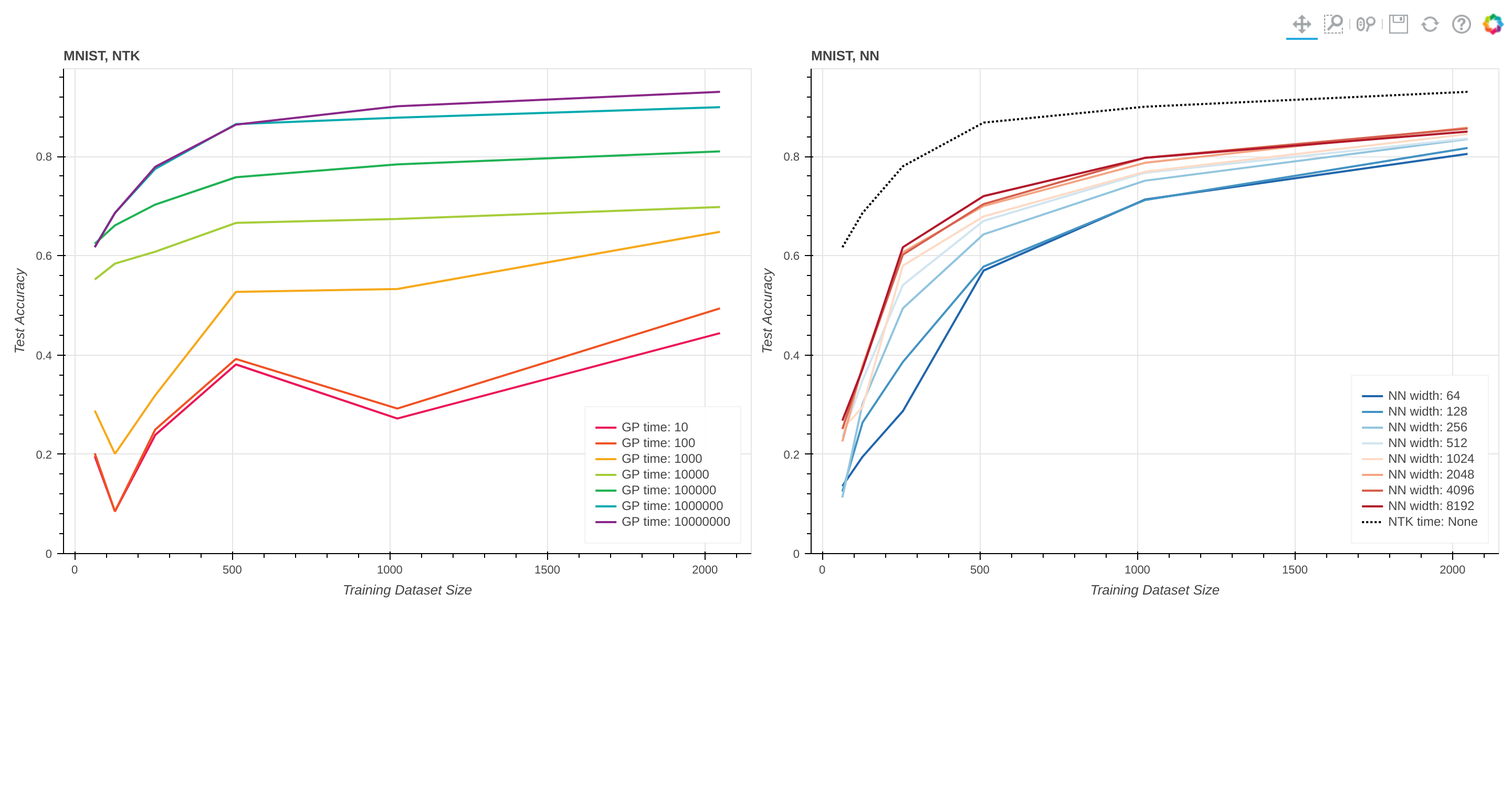
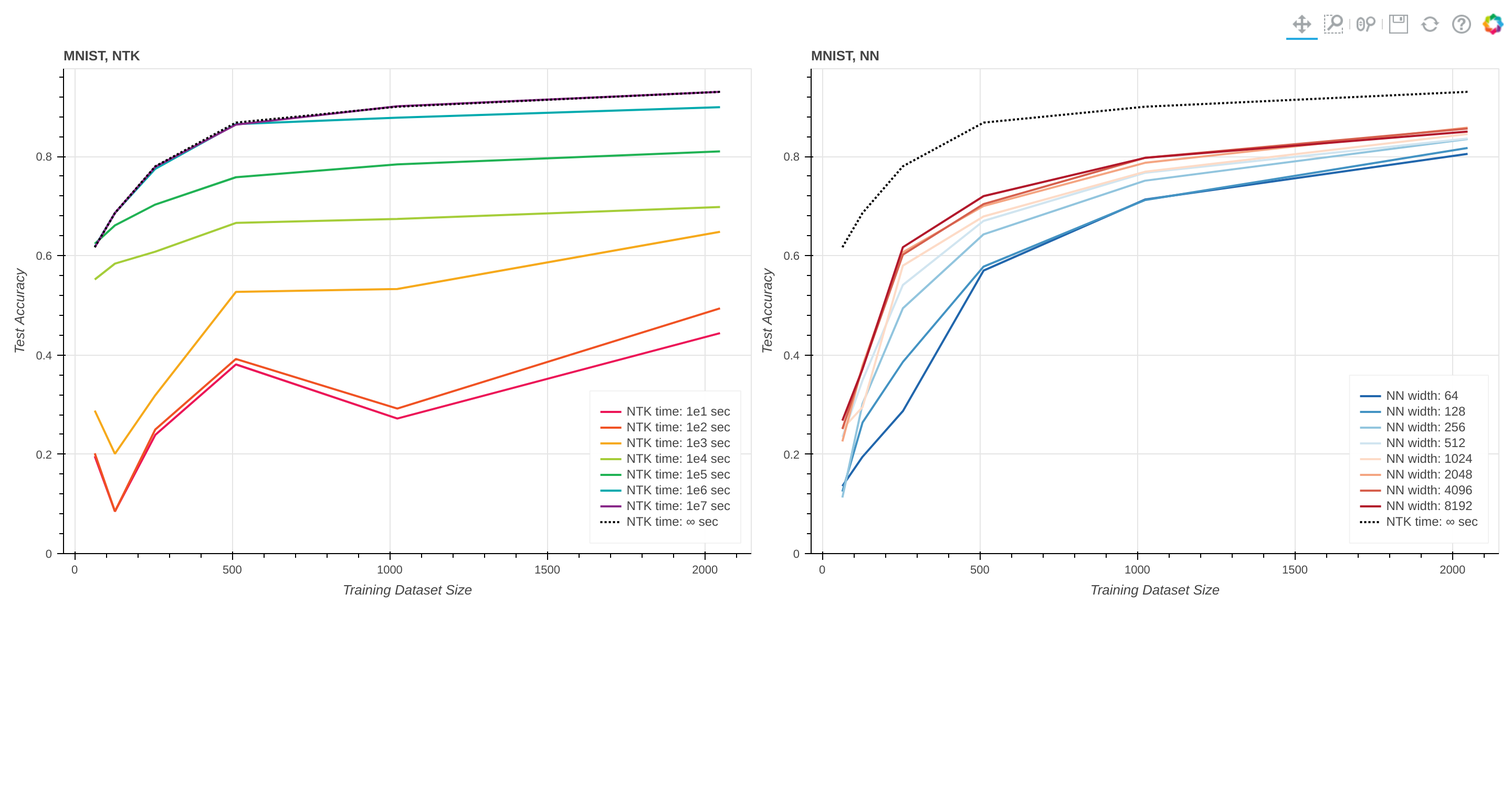
update images

Changed region(s): [[0.9062, 0.4688, 0.9688, 0.6562], [0.4062, 0.5, 0.5, 0.6562]]

diff --git a/assets/Compare_NN_and_NTK.html b/assets/Compare_NN_and_NTK.html
@@ -34,14 +34,14 @@
           
           
             
-              <div class="bk-root" id="08a3f74f-d3d3-4eb5-88f3-38a9f73d7980" data-root-id="23496"></div>
+              <div class="bk-root" id="1f5b6419-c8d9-4f72-9950-2ff5ffd283b7" data-root-id="39768"></div>
             
           
         
       
       
-        <script type="application/json" id="23977">
-          {"6784c0b0-02c0-45f9-b83d-e3599ebe1b0f":{"defs":[],"roots":{"references":[{"attributes":{},"id":"23194","type":"Selection"},{"attributes":{},"id":"23081","type":"AllLabels"},{"attributes":{},"id":"23350","type":"UnionRenderers"},{"attributes":{"line_color":"#4393c3","line_width":2,"x":{"field":"x"},"y":{"field":"y"}},"id":"23244","type":"Line"},{"attributes":{},"id":"23084","type":"UnionRenderers"},{"attributes":{},"id":"23010","type":"DataRange1d"},{"attributes":{"data":{"x":[64,128,256,512,1024,2048],"y":[0.125,0.2639999985694885,0.38600000739097595,0.578000009059906,0.7120000123977661,0.8170000314712524]},"selected":{"id":"23257"},"selection_policy":{"id":"23258"}},"id":"23243","type":"ColumnDataSource"},{"attributes":{"data":{"x":[64,128,256,512,1024,2048],"y":[0.2510000169277191,0.37300002574920654,0.6020000576972961,0.7040000557899475,0.7970000505447388,0.8560000658035278]},"selected":{"id":"23377"},"selection_policy":{"id":"23378"}},"id":"23353","type":"ColumnDataSource"},{"attributes":{},"id":"23195","type":"UnionRenderers"},{"attributes":{"line_color":"#892889","line_width":2,"x":{"field":"x"},"y":{"field":"y"}},"id":"23199","type":"Line"},{"attributes":{"line_color":"#d6604d","line_width":2,"x":{"field":"x"},"y":{"field":"y"}},"id":"23354","type":"Line"},{"attributes":{},"id":"23083","type":"Selection"},{"attributes":{"children":[[{"id":"22974"},0,0],[{"id":"23007"},0,1]]},"id":"23493","type":"GridBox"},{"attributes":{"line_alpha":0.1,"line_dash":[2],"line_width":2,"x":{"field":"x"},"y":{"field":"y"}},"id":"23413","type":"Line"},{"attributes":{},"id":"23080","type":"BasicTickFormatter"},{"attributes":{"data_source":{"id":"23411"},"glyph":{"id":"23412"},"hover_glyph":null,"muted_glyph":null,"nonselection_glyph":{"id":"23413"},"view":{"id":"23415"}},"id":"23414","type":"GlyphRenderer"},{"attributes":{"data":{"x":[64,128,256,512,1024,2048],"y":[0.6170000433921814,0.6860000491142273,0.7790000438690186,0.8640000224113464,0.9010000228881836,0.9300000667572021]},"selected":{"id":"23222"},"selection_policy":{"id":"23223"}},"id":"23198","type":"ColumnDataSource"},{"attributes":{"bottom_units":"screen","fill_alpha":0.5,"fill_color":"lightgrey","left_units":"screen","level":"overlay","line_alpha":1.0,"line_color":"black","line_dash":[4,4],"line_width":2,"right_units":"screen","syncable":false,"top_units":"screen"},"id":"22999","type":"BoxAnnotation"},{"attributes":{"source":{"id":"23411"}},"id":"23415","type":"CDSView"},{"attributes":{"data":{"x":[64,128,256,512,1024,2048],"y":[0.20200000703334808,0.08500000089406967,0.25,0.3920000195503235,0.29200002551078796,0.49400001764297485]},"selected":{"id":"23102"},"selection_policy":{"id":"23103"}},"id":"23088","type":"ColumnDataSource"},{"attributes":{},"id":"23439","type":"Selection"},{"attributes":{},"id":"22993","type":"PanTool"},{"attributes":{"line_color":"#F05223","line_width":2,"x":{"field":"x"},"y":{"field":"y"}},"id":"23089","type":"Line"},{"attributes":{"label":{"value":"NN width: 128"},"renderers":[{"id":"23246"}]},"id":"23260","type":"LegendItem"},{"attributes":{},"id":"23440","type":"UnionRenderers"},{"attributes":{"data_source":{"id":"23243"},"glyph":{"id":"23244"},"hover_glyph":null,"muted_glyph":null,"nonselection_glyph":{"id":"23245"},"view":{"id":"23247"}},"id":"23246","type":"GlyphRenderer"},{"attributes":{"label":{"value":"GP time: 10000000"},"renderers":[{"id":"23201"}]},"id":"23225","type":"LegendItem"},{"attributes":{"label":{"value":"NN width: 4096"},"renderers":[{"id":"23356"}]},"id":"23380","type":"LegendItem"},{"attributes":{"data_source":{"id":"23198"},"glyph":{"id":"23199"},"hover_glyph":null,"muted_glyph":null,"nonselection_glyph":{"id":"23200"},"view":{"id":"23202"}},"id":"23201","type":"GlyphRenderer"},{"attributes":{"data_source":{"id":"23353"},"glyph":{"id":"23354"},"hover_glyph":null,"muted_glyph":null,"nonselection_glyph":{"id":"23355"},"view":{"id":"23357"}},"id":"23356","type":"GlyphRenderer"},{"attributes":{"children":[{"id":"23495"},{"id":"23493"}],"sizing_mode":"scale_both"},"id":"23496","type":"Column"},{"attributes":{"source":{"id":"23243"}},"id":"23247","type":"CDSView"},{"attributes":{"line_alpha":0.1,"line_color":"#4393c3","line_width":2,"x":{"field":"x"},"y":{"field":"y"}},"id":"23245","type":"Line"},{"attributes":{"toolbar":{"id":"23494"},"toolbar_location":"above"},"id":"23495","type":"ToolbarBox"},{"attributes":{"source":{"id":"23198"}},"id":"23202","type":"CDSView"},{"attributes":{"source":{"id":"23353"}},"id":"23357","type":"CDSView"},{"attributes":{},"id":"23257","type":"Selection"},{"attributes":{"toolbars":[{"id":"23000"},{"id":"23033"}],"tools":[{"id":"22993"},{"id":"22994"},{"id":"22995"},{"id":"22996"},{"id":"22997"},{"id":"22998"},{"id":"23026"},{"id":"23027"},{"id":"23028"},{"id":"23029"},{"id":"23030"},{"id":"23031"}]},"id":"23494","type":"ProxyToolbar"},{"attributes":{"line_alpha":0.1,"line_color":"#892889","line_width":2,"x":{"field":"x"},"y":{"field":"y"}},"id":"23200","type":"Line"},{"attributes":{"label":{"value":"GP time: 100"},"renderers":[{"id":"23091"}]},"id":"23105","type":"LegendItem"},{"attributes":{"line_alpha":0.1,"line_color":"#d6604d","line_width":2,"x":{"field":"x"},"y":{"field":"y"}},"id":"23355","type":"Line"},{"attributes":{"data_source":{"id":"23088"},"glyph":{"id":"23089"},"hover_glyph":null,"muted_glyph":null,"nonselection_glyph":{"id":"23090"},"view":{"id":"23092"}},"id":"23091","type":"GlyphRenderer"},{"attributes":{},"id":"23222","type":"Selection"},{"attributes":{},"id":"23258","type":"UnionRenderers"},{"attributes":{},"id":"23377","type":"Selection"},{"attributes":{"source":{"id":"23088"}},"id":"23092","type":"CDSView"},{"attributes":{"line_color":"#92c5de","line_width":2,"x":{"field":"x"},"y":{"field":"y"}},"id":"23262","type":"Line"},{"attributes":{},"id":"23223","type":"UnionRenderers"},{"attributes":{},"id":"23378","type":"UnionRenderers"},{"attributes":{"line_alpha":0.1,"line_color":"#F05223","line_width":2,"x":{"field":"x"},"y":{"field":"y"}},"id":"23090","type":"Line"},{"attributes":{"data":{"x":[64,128,256,512,1024,2048],"y":[0.11300000548362732,0.3020000159740448,0.49400001764297485,0.6430000066757202,0.7510000467300415,0.8350000381469727]},"selected":{"id":"23277"},"selection_policy":{"id":"23278"}},"id":"23261","type":"ColumnDataSource"},{"attributes":{"line_color":"#b2182b","line_width":2,"x":{"field":"x"},"y":{"field":"y"}},"id":"23382","type":"Line"},{"attributes":{},"id":"23102","type":"Selection"},{"attributes":{"line_color":"#2166ac","line_width":2,"x":{"field":"x"},"y":{"field":"y"}},"id":"23227","type":"Line"},{"attributes":{"data":{"x":[64,128,256,512,1024,2048],"y":[0.2680000066757202,0.3720000088214874,0.6170000433921814,0.7200000286102295,0.7970000505447388,0.8500000238418579]},"selected":{"id":"23407"},"selection_policy":{"id":"23408"}},"id":"23381","type":"ColumnDataSource"},{"attributes":{},"id":"23103","type":"UnionRenderers"},{"attributes":{"label":{"value":"GP time: 1000"},"renderers":[{"id":"23109"}]},"id":"23125","type":"LegendItem"},{"attributes":{"line_color":"#F6A91B","line_width":2,"x":{"field":"x"},"y":{"field":"y"}},"id":"23107","type":"Line"},{"attributes":{"data":{"x":[64,128,256,512,1024,2048],"y":[0.2880000174045563,0.20100000500679016,0.3190000057220459,0.5270000100135803,0.5330000519752502,0.6480000019073486]},"selected":{"id":"23122"},"selection_policy":{"id":"23123"}},"id":"23106","type":"ColumnDataSource"},{"attributes":{"label":{"value":"NN width: 256"},"renderers":[{"id":"23264"}]},"id":"23280","type":"LegendItem"},{"attributes":{"data_source":{"id":"23261"},"glyph":{"id":"23262"},"hover_glyph":null,"muted_glyph":null,"nonselection_glyph":{"id":"23263"},"view":{"id":"23265"}},"id":"23264","type":"GlyphRenderer"},{"attributes":{"data":{"x":[64,128,256,512,1024,2048],"y":[0.13600000739097595,0.19500000774860382,0.28700000047683716,0.5700000524520874,0.7130000591278076,0.8050000667572021]},"selected":{"id":"23238"},"selection_policy":{"id":"23239"}},"id":"23226","type":"ColumnDataSource"},{"attributes":{"items":[{"id":"23242"},{"id":"23260"},{"id":"23280"},{"id":"23302"},{"id":"23326"},{"id":"23352"},{"id":"23380"},{"id":"23410"},{"id":"23442"}],"label_text_font_size":"12px","location":"bottom_right","spacing":-5},"id":"23241","type":"Legend"},{"attributes":{"source":{"id":"23261"}},"id":"23265","type":"CDSView"},{"attributes":{"label":{"value":"NN width: 8192"},"renderers":[{"id":"23384"}]},"id":"23410","type":"LegendItem"},{"attributes":{"data_source":{"id":"23226"},"glyph":{"id":"23227"},"hover_glyph":null,"muted_glyph":null,"nonselection_glyph":{"id":"23228"},"view":{"id":"23230"}},"id":"23229","type":"GlyphRenderer"},{"attributes":{"data_source":{"id":"23381"},"glyph":{"id":"23382"},"hover_glyph":null,"muted_glyph":null,"nonselection_glyph":{"id":"23383"},"view":{"id":"23385"}},"id":"23384","type":"GlyphRenderer"},{"attributes":{"line_alpha":0.1,"line_color":"#92c5de","line_width":2,"x":{"field":"x"},"y":{"field":"y"}},"id":"23263","type":"Line"},{"attributes":{},"id":"23277","type":"Selection"},{"attributes":{"data_source":{"id":"23106"},"glyph":{"id":"23107"},"hover_glyph":null,"muted_glyph":null,"nonselection_glyph":{"id":"23108"},"view":{"id":"23110"}},"id":"23109","type":"GlyphRenderer"},{"attributes":{"source":{"id":"23226"}},"id":"23230","type":"CDSView"},{"attributes":{"source":{"id":"23381"}},"id":"23385","type":"CDSView"},{"attributes":{"line_alpha":0.1,"line_color":"#2166ac","line_width":2,"x":{"field":"x"},"y":{"field":"y"}},"id":"23228","type":"Line"},{"attributes":{"line_alpha":0.1,"line_color":"#b2182b","line_width":2,"x":{"field":"x"},"y":{"field":"y"}},"id":"23383","type":"Line"},{"attributes":{},"id":"23278","type":"UnionRenderers"},{"attributes":{},"id":"23014","type":"LinearScale"},{"attributes":{},"id":"23232","type":"BasicTickFormatter"},{"attributes":{},"id":"23407","type":"Selection"},{"attributes":{"source":{"id":"23106"}},"id":"23110","type":"CDSView"},{"attributes":{"line_color":"#d1e5f0","line_width":2,"x":{"field":"x"},"y":{"field":"y"}},"id":"23282","type":"Line"},{"attributes":{"line_alpha":0.1,"line_color":"#F6A91B","line_width":2,"x":{"field":"x"},"y":{"field":"y"}},"id":"23108","type":"Line"},{"attributes":{"data":{"x":[64,128,256,512,1024,2048],"y":[0.23500001430511475,0.3490000069141388,0.5410000085830688,0.6700000166893005,0.7670000195503235,0.8360000252723694]},"selected":{"id":"23299"},"selection_policy":{"id":"23300"}},"id":"23281","type":"ColumnDataSource"},{"attributes":{},"id":"23233","type":"AllLabels"},{"attributes":{},"id":"23408","type":"UnionRenderers"},{"attributes":{"data":{"x":[64,128,256,512,1024,2048],"y":[0.6170000433921814,0.6860000491142273,0.7800000309944153,0.8680000305175781,0.9000000357627869,0.9300000667572021]},"selected":{"id":"23439"},"selection_policy":{"id":"23440"}},"id":"23411","type":"ColumnDataSource"},{"attributes":{},"id":"23122","type":"Selection"},{"attributes":{},"id":"23238","type":"Selection"},{"attributes":{"line_dash":[2],"line_width":2,"x":{"field":"x"},"y":{"field":"y"}},"id":"23412","type":"Line"},{"attributes":{},"id":"23235","type":"BasicTickFormatter"},{"attributes":{"start":0},"id":"23012","type":"DataRange1d"},{"attributes":{},"id":"23236","type":"AllLabels"},{"attributes":{},"id":"23123","type":"UnionRenderers"},{"attributes":{},"id":"23016","type":"LinearScale"},{"attributes":{},"id":"23239","type":"UnionRenderers"},{"attributes":{"line_alpha":0.1,"line_color":"#d1e5f0","line_width":2,"x":{"field":"x"},"y":{"field":"y"}},"id":"23283","type":"Line"},{"attributes":{"label":{"value":"NN width: 64"},"renderers":[{"id":"23229"}]},"id":"23242","type":"LegendItem"},{"attributes":{"source":{"id":"23172"}},"id":"23176","type":"CDSView"},{"attributes":{"start":0},"id":"22979","type":"DataRange1d"},{"attributes":{"data_source":{"id":"23281"},"glyph":{"id":"23282"},"hover_glyph":null,"muted_glyph":null,"nonselection_glyph":{"id":"23283"},"view":{"id":"23285"}},"id":"23284","type":"GlyphRenderer"},{"attributes":{"line_color":"#A5CD39","line_width":2,"x":{"field":"x"},"y":{"field":"y"}},"id":"23127","type":"Line"},{"attributes":{"source":{"id":"23281"}},"id":"23285","type":"CDSView"},{"attributes":{"overlay":{"id":"22999"}},"id":"22995","type":"BoxZoomTool"},{"attributes":{"line_alpha":0.1,"line_color":"#EC1557","line_width":2,"x":{"field":"x"},"y":{"field":"y"}},"id":"23073","type":"Line"},{"attributes":{"data":{"x":[64,128,256,512,1024,2048],"y":[0.5520000457763672,0.5840000510215759,0.6080000400543213,0.6660000085830688,0.6740000247955322,0.6980000138282776]},"selected":{"id":"23144"},"selection_policy":{"id":"23145"}},"id":"23126","type":"ColumnDataSource"},{"attributes":{},"id":"22981","type":"LinearScale"},{"attributes":{"label":{"value":"NN width: 512"},"renderers":[{"id":"23284"}]},"id":"23302","type":"LegendItem"},{"attributes":{"overlay":{"id":"23032"}},"id":"23028","type":"BoxZoomTool"},{"attributes":{"data_source":{"id":"23071"},"glyph":{"id":"23072"},"hover_glyph":null,"muted_glyph":null,"nonselection_glyph":{"id":"23073"},"view":{"id":"23075"}},"id":"23074","type":"GlyphRenderer"},{"attributes":{"label":{"value":"GP time: 10000"},"renderers":[{"id":"23129"}]},"id":"23147","type":"LegendItem"},{"attributes":{},"id":"23299","type":"Selection"},{"attributes":{},"id":"22996","type":"SaveTool"},{"attributes":{"data_source":{"id":"23126"},"glyph":{"id":"23127"},"hover_glyph":null,"muted_glyph":null,"nonselection_glyph":{"id":"23128"},"view":{"id":"23130"}},"id":"23129","type":"GlyphRenderer"},{"attributes":{"data":{"x":[64,128,256,512,1024,2048],"y":[0.19600000977516174,0.08500000089406967,0.23900000751018524,0.38100001215934753,0.2720000147819519,0.4440000355243683]},"selected":{"id":"23083"},"selection_policy":{"id":"23084"}},"id":"23071","type":"ColumnDataSource"},{"attributes":{},"id":"23030","type":"ResetTool"},{"attributes":{"axis_label":"Training Dataset Size","formatter":{"id":"23080"},"major_label_policy":{"id":"23081"},"ticker":{"id":"22986"}},"id":"22985","type":"LinearAxis"},{"attributes":{"items":[{"id":"23087"},{"id":"23105"},{"id":"23125"},{"id":"23147"},{"id":"23171"},{"id":"23197"},{"id":"23225"}],"label_text_font_size":"12px","location":"bottom_right","spacing":-5},"id":"23086","type":"Legend"},{"attributes":{},"id":"23300","type":"UnionRenderers"},{"attributes":{},"id":"23026","type":"PanTool"},{"attributes":{"below":[{"id":"23018"}],"center":[{"id":"23021"},{"id":"23025"},{"id":"23241"}],"height":30,"left":[{"id":"23022"}],"renderers":[{"id":"23229"},{"id":"23246"},{"id":"23264"},{"id":"23284"},{"id":"23306"},{"id":"23330"},{"id":"23356"},{"id":"23384"},{"id":"23414"}],"sizing_mode":"scale_both","title":{"id":"23008"},"toolbar":{"id":"23033"},"toolbar_location":null,"width":40,"x_range":{"id":"23010"},"x_scale":{"id":"23014"},"y_range":{"id":"23012"},"y_scale":{"id":"23016"}},"id":"23007","subtype":"Figure","type":"Plot"},{"attributes":{"source":{"id":"23126"}},"id":"23130","type":"CDSView"},{"attributes":{"line_alpha":0.1,"line_color":"#A5CD39","line_width":2,"x":{"field":"x"},"y":{"field":"y"}},"id":"23128","type":"Line"},{"attributes":{"line_color":"#fddbc7","line_width":2,"x":{"field":"x"},"y":{"field":"y"}},"id":"23304","type":"Line"},{"attributes":{"source":{"id":"23071"}},"id":"23075","type":"CDSView"},{"attributes":{"data":{"x":[64,128,256,512,1024,2048],"y":[0.2510000169277191,0.29500001668930054,0.5800000429153442,0.6790000200271606,0.7690000534057617,0.8450000286102295]},"selected":{"id":"23323"},"selection_policy":{"id":"23324"}},"id":"23303","type":"ColumnDataSource"},{"attributes":{"axis_label":"Test Accuracy","formatter":{"id":"23077"},"major_label_policy":{"id":"23078"},"ticker":{"id":"22990"}},"id":"22989","type":"LinearAxis"},{"attributes":{},"id":"23144","type":"Selection"},{"attributes":{"label":{"value":"GP time: 10"},"renderers":[{"id":"23074"}]},"id":"23087","type":"LegendItem"},{"attributes":{},"id":"23031","type":"HelpTool"},{"attributes":{},"id":"23145","type":"UnionRenderers"},{"attributes":{},"id":"23077","type":"BasicTickFormatter"},{"attributes":{"bottom_units":"screen","fill_alpha":0.5,"fill_color":"lightgrey","left_units":"screen","level":"overlay","line_alpha":1.0,"line_color":"black","line_dash":[4,4],"line_width":2,"right_units":"screen","syncable":false,"top_units":"screen"},"id":"23032","type":"BoxAnnotation"},{"attributes":{"line_color":"#20B254","line_width":2,"x":{"field":"x"},"y":{"field":"y"}},"id":"23149","type":"Line"},{"attributes":{"data":{"x":[64,128,256,512,1024,2048],"y":[0.6240000128746033,0.6610000133514404,0.703000009059906,0.7580000162124634,0.784000039100647,0.8100000619888306]},"selected":{"id":"23168"},"selection_policy":{"id":"23169"}},"id":"23148","type":"ColumnDataSource"},{"attributes":{},"id":"23349","type":"Selection"},{"attributes":{"axis":{"id":"23018"},"ticker":null},"id":"23021","type":"Grid"},{"attributes":{"active_multi":null,"tools":[{"id":"22993"},{"id":"22994"},{"id":"22995"},{"id":"22996"},{"id":"22997"},{"id":"22998"}]},"id":"23000","type":"Toolbar"},{"attributes":{"axis_label":"Test Accuracy","formatter":{"id":"23232"},"major_label_policy":{"id":"23233"},"ticker":{"id":"23023"}},"id":"23022","type":"LinearAxis"},{"attributes":{},"id":"22990","type":"BasicTicker"},{"attributes":{"label":{"value":"NN width: 1024"},"renderers":[{"id":"23306"}]},"id":"23326","type":"LegendItem"},{"attributes":{},"id":"23027","type":"WheelZoomTool"},{"attributes":{"axis":{"id":"22985"},"ticker":null},"id":"22988","type":"Grid"},{"attributes":{"data_source":{"id":"23303"},"glyph":{"id":"23304"},"hover_glyph":null,"muted_glyph":null,"nonselection_glyph":{"id":"23305"},"view":{"id":"23307"}},"id":"23306","type":"GlyphRenderer"},{"attributes":{},"id":"22986","type":"BasicTicker"},{"attributes":{},"id":"23078","type":"AllLabels"},{"attributes":{"source":{"id":"23303"}},"id":"23307","type":"CDSView"},{"attributes":{"label":{"value":"GP time: 100000"},"renderers":[{"id":"23151"}]},"id":"23171","type":"LegendItem"},{"attributes":{"line_alpha":0.1,"line_color":"#fddbc7","line_width":2,"x":{"field":"x"},"y":{"field":"y"}},"id":"23305","type":"Line"},{"attributes":{},"id":"23029","type":"SaveTool"},{"attributes":{"data_source":{"id":"23148"},"glyph":{"id":"23149"},"hover_glyph":null,"muted_glyph":null,"nonselection_glyph":{"id":"23150"},"view":{"id":"23152"}},"id":"23151","type":"GlyphRenderer"},{"attributes":{},"id":"22998","type":"HelpTool"},{"attributes":{"label":{"value":"NTK time: None"},"renderers":[{"id":"23414"}]},"id":"23442","type":"LegendItem"},{"attributes":{},"id":"23323","type":"Selection"},{"attributes":{"source":{"id":"23148"}},"id":"23152","type":"CDSView"},{"attributes":{"line_alpha":0.1,"line_color":"#20B254","line_width":2,"x":{"field":"x"},"y":{"field":"y"}},"id":"23150","type":"Line"},{"attributes":{},"id":"23324","type":"UnionRenderers"},{"attributes":{},"id":"22997","type":"ResetTool"},{"attributes":{"line_color":"#EC1557","line_width":2,"x":{"field":"x"},"y":{"field":"y"}},"id":"23072","type":"Line"},{"attributes":{"axis":{"id":"22989"},"dimension":1,"ticker":null},"id":"22992","type":"Grid"},{"attributes":{"data":{"x":[64,128,256,512,1024,2048],"y":[0.22600001096725464,0.3790000081062317,0.6070000529289246,0.7000000476837158,0.7870000600814819,0.8580000400543213]},"selected":{"id":"23349"},"selection_policy":{"id":"23350"}},"id":"23327","type":"ColumnDataSource"},{"attributes":{"line_color":"#f4a582","line_width":2,"x":{"field":"x"},"y":{"field":"y"}},"id":"23328","type":"Line"},{"attributes":{},"id":"23023","type":"BasicTicker"},{"attributes":{},"id":"23168","type":"Selection"},{"attributes":{},"id":"23169","type":"UnionRenderers"},{"attributes":{"active_multi":null,"tools":[{"id":"23026"},{"id":"23027"},{"id":"23028"},{"id":"23029"},{"id":"23030"},{"id":"23031"}]},"id":"23033","type":"Toolbar"},{"attributes":{"line_color":"#00AAAE","line_width":2,"x":{"field":"x"},"y":{"field":"y"}},"id":"23173","type":"Line"},{"attributes":{"data":{"x":[64,128,256,512,1024,2048],"y":[0.6180000305175781,0.6860000491142273,0.7750000357627869,0.8650000691413879,0.878000020980835,0.8990000486373901]},"selected":{"id":"23194"},"selection_policy":{"id":"23195"}},"id":"23172","type":"ColumnDataSource"},{"attributes":{},"id":"22994","type":"WheelZoomTool"},{"attributes":{},"id":"23019","type":"BasicTicker"},{"attributes":{"axis":{"id":"23022"},"dimension":1,"ticker":null},"id":"23025","type":"Grid"},{"attributes":{"label":{"value":"NN width: 2048"},"renderers":[{"id":"23330"}]},"id":"23352","type":"LegendItem"},{"attributes":{"data_source":{"id":"23327"},"glyph":{"id":"23328"},"hover_glyph":null,"muted_glyph":null,"nonselection_glyph":{"id":"23329"},"view":{"id":"23331"}},"id":"23330","type":"GlyphRenderer"},{"attributes":{"axis_label":"Training Dataset Size","formatter":{"id":"23235"},"major_label_policy":{"id":"23236"},"ticker":{"id":"23019"}},"id":"23018","type":"LinearAxis"},{"attributes":{"text":"MNIST, NN"},"id":"23008","type":"Title"},{"attributes":{"line_alpha":0.1,"line_color":"#00AAAE","line_width":2,"x":{"field":"x"},"y":{"field":"y"}},"id":"23174","type":"Line"},{"attributes":{"below":[{"id":"22985"}],"center":[{"id":"22988"},{"id":"22992"},{"id":"23086"}],"height":30,"left":[{"id":"22989"}],"renderers":[{"id":"23074"},{"id":"23091"},{"id":"23109"},{"id":"23129"},{"id":"23151"},{"id":"23175"},{"id":"23201"}],"sizing_mode":"scale_both","title":{"id":"22975"},"toolbar":{"id":"23000"},"toolbar_location":null,"width":40,"x_range":{"id":"22977"},"x_scale":{"id":"22981"},"y_range":{"id":"22979"},"y_scale":{"id":"22983"}},"id":"22974","subtype":"Figure","type":"Plot"},{"attributes":{},"id":"22983","type":"LinearScale"},{"attributes":{"label":{"value":"GP time: 1000000"},"renderers":[{"id":"23175"}]},"id":"23197","type":"LegendItem"},{"attributes":{"source":{"id":"23327"}},"id":"23331","type":"CDSView"},{"attributes":{"line_alpha":0.1,"line_color":"#f4a582","line_width":2,"x":{"field":"x"},"y":{"field":"y"}},"id":"23329","type":"Line"},{"attributes":{"text":"MNIST, NTK"},"id":"22975","type":"Title"},{"attributes":{"data_source":{"id":"23172"},"glyph":{"id":"23173"},"hover_glyph":null,"muted_glyph":null,"nonselection_glyph":{"id":"23174"},"view":{"id":"23176"}},"id":"23175","type":"GlyphRenderer"},{"attributes":{},"id":"22977","type":"DataRange1d"}],"root_ids":["23496"]},"title":"Bokeh Application","version":"2.3.3"}}
+        <script type="application/json" id="40269">
+          {"5ecbb621-d67a-4532-92a8-84ad3df40fd3":{"defs":[],"roots":{"references":[{"attributes":{"data":{"x":[64,128,256,512,1024,2048],"y":[0.6240000128746033,0.6610000133514404,0.703000009059906,0.7580000162124634,0.784000039100647,0.8100000619888306]},"selected":{"id":"39408"},"selection_policy":{"id":"39409"}},"id":"39388","type":"ColumnDataSource"},{"attributes":{},"id":"39498","type":"UnionRenderers"},{"attributes":{"text":"MNIST, NN"},"id":"39248","type":"Title"},{"attributes":{},"id":"39463","type":"UnionRenderers"},{"attributes":{},"id":"39475","type":"BasicTickFormatter"},{"attributes":{},"id":"39385","type":"UnionRenderers"},{"attributes":{},"id":"39478","type":"Selection"},{"attributes":{"line_alpha":0.1,"line_color":"#20B254","line_width":2,"x":{"field":"x"},"y":{"field":"y"}},"id":"39390","type":"Line"},{"attributes":{},"id":"39233","type":"PanTool"},{"attributes":{"label":{"value":"NTK time: 1e5 sec"},"renderers":[{"id":"39391"}]},"id":"39411","type":"LegendItem"},{"attributes":{},"id":"39476","type":"AllLabels"},{"attributes":{"label":{"value":"NN width: 64"},"renderers":[{"id":"39469"}]},"id":"39482","type":"LegendItem"},{"attributes":{"line_color":"#4393c3","line_width":2,"x":{"field":"x"},"y":{"field":"y"}},"id":"39484","type":"Line"},{"attributes":{},"id":"39342","type":"Selection"},{"attributes":{"data":{"x":[64,128,256,512,1024,2048],"y":[0.6170000433921814,0.6860000491142273,0.7790000438690186,0.8640000224113464,0.9010000228881836,0.9300000667572021]},"selected":{"id":"39462"},"selection_policy":{"id":"39463"}},"id":"39438","type":"ColumnDataSource"},{"attributes":{"line_color":"#20B254","line_width":2,"x":{"field":"x"},"y":{"field":"y"}},"id":"39389","type":"Line"},{"attributes":{},"id":"39234","type":"WheelZoomTool"},{"attributes":{"axis":{"id":"39229"},"dimension":1,"ticker":null},"id":"39232","type":"Grid"},{"attributes":{"line_color":"#EC1557","line_width":2,"x":{"field":"x"},"y":{"field":"y"}},"id":"39312","type":"Line"},{"attributes":{"label":{"value":"NTK time: 1e6 sec"},"renderers":[{"id":"39415"}]},"id":"39437","type":"LegendItem"},{"attributes":{"source":{"id":"39483"}},"id":"39487","type":"CDSView"},{"attributes":{"line_alpha":0.1,"line_color":"#4393c3","line_width":2,"x":{"field":"x"},"y":{"field":"y"}},"id":"39485","type":"Line"},{"attributes":{"label":{"value":"NN width: 512"},"renderers":[{"id":"39524"}]},"id":"39542","type":"LegendItem"},{"attributes":{},"id":"39435","type":"UnionRenderers"},{"attributes":{},"id":"39497","type":"Selection"},{"attributes":{},"id":"39479","type":"UnionRenderers"},{"attributes":{"axis":{"id":"39262"},"dimension":1,"ticker":null},"id":"39265","type":"Grid"},{"attributes":{"source":{"id":"39366"}},"id":"39370","type":"CDSView"},{"attributes":{},"id":"39343","type":"UnionRenderers"},{"attributes":{},"id":"39709","type":"Selection"},{"attributes":{"label":{"value":"NTK time: 1e4 sec"},"renderers":[{"id":"39369"}]},"id":"39387","type":"LegendItem"},{"attributes":{"line_color":"#892889","line_width":2,"x":{"field":"x"},"y":{"field":"y"}},"id":"39439","type":"Line"},{"attributes":{},"id":"39384","type":"Selection"},{"attributes":{},"id":"39462","type":"Selection"},{"attributes":{"data_source":{"id":"39366"},"glyph":{"id":"39367"},"hover_glyph":null,"muted_glyph":null,"nonselection_glyph":{"id":"39368"},"view":{"id":"39370"}},"id":"39369","type":"GlyphRenderer"},{"attributes":{"source":{"id":"39438"}},"id":"39442","type":"CDSView"},{"attributes":{},"id":"39238","type":"HelpTool"},{"attributes":{"label":{"value":"NTK time: 1e7 sec"},"renderers":[{"id":"39441"}]},"id":"39465","type":"LegendItem"},{"attributes":{},"id":"39473","type":"AllLabels"},{"attributes":{"data_source":{"id":"39346"},"glyph":{"id":"39347"},"hover_glyph":null,"muted_glyph":null,"nonselection_glyph":{"id":"39348"},"view":{"id":"39350"}},"id":"39349","type":"GlyphRenderer"},{"attributes":{"data_source":{"id":"39438"},"glyph":{"id":"39439"},"hover_glyph":null,"muted_glyph":null,"nonselection_glyph":{"id":"39440"},"view":{"id":"39442"}},"id":"39441","type":"GlyphRenderer"},{"attributes":{},"id":"39254","type":"LinearScale"},{"attributes":{},"id":"39472","type":"BasicTickFormatter"},{"attributes":{},"id":"39408","type":"Selection"},{"attributes":{"source":{"id":"39311"}},"id":"39315","type":"CDSView"},{"attributes":{"active_multi":null,"tools":[{"id":"39233"},{"id":"39234"},{"id":"39235"},{"id":"39236"},{"id":"39237"},{"id":"39238"}]},"id":"39240","type":"Toolbar"},{"attributes":{"data_source":{"id":"39388"},"glyph":{"id":"39389"},"hover_glyph":null,"muted_glyph":null,"nonselection_glyph":{"id":"39390"},"view":{"id":"39392"}},"id":"39391","type":"GlyphRenderer"},{"attributes":{},"id":"39363","type":"UnionRenderers"},{"attributes":{"line_alpha":0.1,"line_color":"#EC1557","line_width":2,"x":{"field":"x"},"y":{"field":"y"}},"id":"39313","type":"Line"},{"attributes":{"line_alpha":0.1,"line_color":"#00AAAE","line_width":2,"x":{"field":"x"},"y":{"field":"y"}},"id":"39414","type":"Line"},{"attributes":{},"id":"39710","type":"UnionRenderers"},{"attributes":{"label":{"value":"NN width: 128"},"renderers":[{"id":"39486"}]},"id":"39500","type":"LegendItem"},{"attributes":{"data":{"x":[64,128,256,512,1024,2048],"y":[0.125,0.2639999985694885,0.38600000739097595,0.578000009059906,0.7120000123977661,0.8170000314712524]},"selected":{"id":"39497"},"selection_policy":{"id":"39498"}},"id":"39483","type":"ColumnDataSource"},{"attributes":{"source":{"id":"39412"}},"id":"39416","type":"CDSView"},{"attributes":{"data":{"x":[64,128,256,512,1024,2048],"y":[0.6180000305175781,0.6860000491142273,0.7750000357627869,0.8650000691413879,0.878000020980835,0.8990000486373901]},"selected":{"id":"39434"},"selection_policy":{"id":"39435"}},"id":"39412","type":"ColumnDataSource"},{"attributes":{},"id":"39362","type":"Selection"},{"attributes":{},"id":"39409","type":"UnionRenderers"},{"attributes":{"overlay":{"id":"39239"}},"id":"39235","type":"BoxZoomTool"},{"attributes":{"data_source":{"id":"39466"},"glyph":{"id":"39467"},"hover_glyph":null,"muted_glyph":null,"nonselection_glyph":{"id":"39468"},"view":{"id":"39470"}},"id":"39469","type":"GlyphRenderer"},{"attributes":{"data_source":{"id":"39412"},"glyph":{"id":"39413"},"hover_glyph":null,"muted_glyph":null,"nonselection_glyph":{"id":"39414"},"view":{"id":"39416"}},"id":"39415","type":"GlyphRenderer"},{"attributes":{"data_source":{"id":"39483"},"glyph":{"id":"39484"},"hover_glyph":null,"muted_glyph":null,"nonselection_glyph":{"id":"39485"},"view":{"id":"39487"}},"id":"39486","type":"GlyphRenderer"},{"attributes":{"data_source":{"id":"39311"},"glyph":{"id":"39312"},"hover_glyph":null,"muted_glyph":null,"nonselection_glyph":{"id":"39313"},"view":{"id":"39315"}},"id":"39314","type":"GlyphRenderer"},{"attributes":{"items":[{"id":"39482"},{"id":"39500"},{"id":"39520"},{"id":"39542"},{"id":"39566"},{"id":"39592"},{"id":"39620"},{"id":"39650"},{"id":"39712"}],"label_text_font_size":"12px","location":"bottom_right","spacing":-5},"id":"39481","type":"Legend"},{"attributes":{"line_color":"#F6A91B","line_width":2,"x":{"field":"x"},"y":{"field":"y"}},"id":"39347","type":"Line"},{"attributes":{"line_color":"#A5CD39","line_width":2,"x":{"field":"x"},"y":{"field":"y"}},"id":"39367","type":"Line"},{"attributes":{"line_alpha":0.1,"line_color":"#A5CD39","line_width":2,"x":{"field":"x"},"y":{"field":"y"}},"id":"39368","type":"Line"},{"attributes":{"label":{"value":"NTK time: 1e3 sec"},"renderers":[{"id":"39349"}]},"id":"39365","type":"LegendItem"},{"attributes":{"line_color":"#2166ac","line_width":2,"x":{"field":"x"},"y":{"field":"y"}},"id":"39467","type":"Line"},{"attributes":{"line_dash":[2],"line_width":2,"x":{"field":"x"},"y":{"field":"y"}},"id":"39682","type":"Line"},{"attributes":{},"id":"39236","type":"SaveTool"},{"attributes":{"data":{"x":[64,128,256,512,1024,2048],"y":[0.19600000977516174,0.08500000089406967,0.23900000751018524,0.38100001215934753,0.2720000147819519,0.4440000355243683]},"selected":{"id":"39323"},"selection_policy":{"id":"39324"}},"id":"39311","type":"ColumnDataSource"},{"attributes":{"data":{"x":[64,128,256,512,1024,2048],"y":[0.5520000457763672,0.5840000510215759,0.6080000400543213,0.6660000085830688,0.6740000247955322,0.6980000138282776]},"selected":{"id":"39384"},"selection_policy":{"id":"39385"}},"id":"39366","type":"ColumnDataSource"},{"attributes":{"line_alpha":0.1,"line_color":"#892889","line_width":2,"x":{"field":"x"},"y":{"field":"y"}},"id":"39440","type":"Line"},{"attributes":{"data":{"x":[64,128,256,512,1024,2048],"y":[0.2880000174045563,0.20100000500679016,0.3190000057220459,0.5270000100135803,0.5330000519752502,0.6480000019073486]},"selected":{"id":"39362"},"selection_policy":{"id":"39363"}},"id":"39346","type":"ColumnDataSource"},{"attributes":{"source":{"id":"39388"}},"id":"39392","type":"CDSView"},{"attributes":{"source":{"id":"39466"}},"id":"39470","type":"CDSView"},{"attributes":{"line_alpha":0.1,"line_color":"#2166ac","line_width":2,"x":{"field":"x"},"y":{"field":"y"}},"id":"39468","type":"Line"},{"attributes":{"start":0},"id":"39252","type":"DataRange1d"},{"attributes":{},"id":"39434","type":"Selection"},{"attributes":{"line_alpha":0.1,"line_color":"#F6A91B","line_width":2,"x":{"field":"x"},"y":{"field":"y"}},"id":"39348","type":"Line"},{"attributes":{},"id":"39250","type":"DataRange1d"},{"attributes":{"source":{"id":"39346"}},"id":"39350","type":"CDSView"},{"attributes":{"data":{"x":[64,128,256,512,1024,2048],"y":[0.13600000739097595,0.19500000774860382,0.28700000047683716,0.5700000524520874,0.7130000591278076,0.8050000667572021]},"selected":{"id":"39478"},"selection_policy":{"id":"39479"}},"id":"39466","type":"ColumnDataSource"},{"attributes":{},"id":"39237","type":"ResetTool"},{"attributes":{"line_color":"#00AAAE","line_width":2,"x":{"field":"x"},"y":{"field":"y"}},"id":"39413","type":"Line"},{"attributes":{"bottom_units":"screen","fill_alpha":0.5,"fill_color":"lightgrey","left_units":"screen","level":"overlay","line_alpha":1.0,"line_color":"black","line_dash":[4,4],"line_width":2,"right_units":"screen","syncable":false,"top_units":"screen"},"id":"39272","type":"BoxAnnotation"},{"attributes":{},"id":"39267","type":"WheelZoomTool"},{"attributes":{"data":{"x":[64,128,256,512,1024,2048],"y":[0.23500001430511475,0.3490000069141388,0.5410000085830688,0.6700000166893005,0.7670000195503235,0.8360000252723694]},"selected":{"id":"39539"},"selection_policy":{"id":"39540"}},"id":"39521","type":"ColumnDataSource"},{"attributes":{"bottom_units":"screen","fill_alpha":0.5,"fill_color":"lightgrey","left_units":"screen","level":"overlay","line_alpha":1.0,"line_color":"black","line_dash":[4,4],"line_width":2,"right_units":"screen","syncable":false,"top_units":"screen"},"id":"39239","type":"BoxAnnotation"},{"attributes":{"data":{"x":[64,128,256,512,1024,2048],"y":[0.2510000169277191,0.29500001668930054,0.5800000429153442,0.6790000200271606,0.7690000534057617,0.8450000286102295]},"selected":{"id":"39563"},"selection_policy":{"id":"39564"}},"id":"39543","type":"ColumnDataSource"},{"attributes":{"source":{"id":"39681"}},"id":"39685","type":"CDSView"},{"attributes":{"line_alpha":0.1,"line_color":"#F05223","line_width":2,"x":{"field":"x"},"y":{"field":"y"}},"id":"39330","type":"Line"},{"attributes":{},"id":"39678","type":"UnionRenderers"},{"attributes":{},"id":"39589","type":"Selection"},{"attributes":{"children":[[{"id":"39214"},0,0],[{"id":"39247"},0,1]]},"id":"39765","type":"GridBox"},{"attributes":{"source":{"id":"39328"}},"id":"39332","type":"CDSView"},{"attributes":{},"id":"39320","type":"BasicTickFormatter"},{"attributes":{"data":{"x":[64,128,256,512,1024,2048],"y":[0.2510000169277191,0.37300002574920654,0.6020000576972961,0.7040000557899475,0.7970000505447388,0.8560000658035278]},"selected":{"id":"39617"},"selection_policy":{"id":"39618"}},"id":"39593","type":"ColumnDataSource"},{"attributes":{"line_alpha":0.1,"line_color":"#d6604d","line_width":2,"x":{"field":"x"},"y":{"field":"y"}},"id":"39595","type":"Line"},{"attributes":{"line_alpha":0.1,"line_dash":[2],"line_width":2,"x":{"field":"x"},"y":{"field":"y"}},"id":"39653","type":"Line"},{"attributes":{"source":{"id":"39593"}},"id":"39597","type":"CDSView"},{"attributes":{},"id":"39677","type":"Selection"},{"attributes":{},"id":"39540","type":"UnionRenderers"},{"attributes":{"label":{"value":"NTK time: \u221e sec"},"renderers":[{"id":"39684"}]},"id":"39712","type":"LegendItem"},{"attributes":{},"id":"39647","type":"Selection"},{"attributes":{"source":{"id":"39651"}},"id":"39655","type":"CDSView"},{"attributes":{},"id":"39263","type":"BasicTicker"},{"attributes":{"data_source":{"id":"39681"},"glyph":{"id":"39682"},"hover_glyph":null,"muted_glyph":null,"nonselection_glyph":{"id":"39683"},"view":{"id":"39685"}},"id":"39684","type":"GlyphRenderer"},{"attributes":{},"id":"39317","type":"BasicTickFormatter"},{"attributes":{"line_alpha":0.1,"line_color":"#f4a582","line_width":2,"x":{"field":"x"},"y":{"field":"y"}},"id":"39569","type":"Line"},{"attributes":{"start":0},"id":"39219","type":"DataRange1d"},{"attributes":{},"id":"39270","type":"ResetTool"},{"attributes":{"line_alpha":0.1,"line_color":"#b2182b","line_width":2,"x":{"field":"x"},"y":{"field":"y"}},"id":"39623","type":"Line"},{"attributes":{},"id":"39217","type":"DataRange1d"},{"attributes":{"items":[{"id":"39327"},{"id":"39345"},{"id":"39365"},{"id":"39387"},{"id":"39411"},{"id":"39437"},{"id":"39465"},{"id":"39680"}],"label_text_font_size":"12px","location":"bottom_right","spacing":-5},"id":"39326","type":"Legend"},{"attributes":{"line_dash":[2],"line_width":2,"x":{"field":"x"},"y":{"field":"y"}},"id":"39652","type":"Line"},{"attributes":{},"id":"39230","type":"BasicTicker"},{"attributes":{"line_alpha":0.1,"line_color":"#fddbc7","line_width":2,"x":{"field":"x"},"y":{"field":"y"}},"id":"39545","type":"Line"},{"attributes":{"active_multi":null,"tools":[{"id":"39266"},{"id":"39267"},{"id":"39268"},{"id":"39269"},{"id":"39270"},{"id":"39271"}]},"id":"39273","type":"Toolbar"},{"attributes":{},"id":"39321","type":"AllLabels"},{"attributes":{},"id":"39318","type":"AllLabels"},{"attributes":{},"id":"39648","type":"UnionRenderers"},{"attributes":{"below":[{"id":"39258"}],"center":[{"id":"39261"},{"id":"39265"},{"id":"39481"}],"height":30,"left":[{"id":"39262"}],"renderers":[{"id":"39469"},{"id":"39486"},{"id":"39504"},{"id":"39524"},{"id":"39546"},{"id":"39570"},{"id":"39596"},{"id":"39624"},{"id":"39684"}],"sizing_mode":"scale_both","title":{"id":"39248"},"toolbar":{"id":"39273"},"toolbar_location":null,"width":40,"x_range":{"id":"39250"},"x_scale":{"id":"39254"},"y_range":{"id":"39252"},"y_scale":{"id":"39256"}},"id":"39247","subtype":"Figure","type":"Plot"},{"attributes":{},"id":"39269","type":"SaveTool"},{"attributes":{"data_source":{"id":"39543"},"glyph":{"id":"39544"},"hover_glyph":null,"muted_glyph":null,"nonselection_glyph":{"id":"39545"},"view":{"id":"39547"}},"id":"39546","type":"GlyphRenderer"},{"attributes":{"data_source":{"id":"39593"},"glyph":{"id":"39594"},"hover_glyph":null,"muted_glyph":null,"nonselection_glyph":{"id":"39595"},"view":{"id":"39597"}},"id":"39596","type":"GlyphRenderer"},{"attributes":{"source":{"id":"39621"}},"id":"39625","type":"CDSView"},{"attributes":{},"id":"39266","type":"PanTool"},{"attributes":{},"id":"39259","type":"BasicTicker"},{"attributes":{},"id":"39517","type":"Selection"},{"attributes":{},"id":"39223","type":"LinearScale"},{"attributes":{},"id":"39590","type":"UnionRenderers"},{"attributes":{"line_color":"#F05223","line_width":2,"x":{"field":"x"},"y":{"field":"y"}},"id":"39329","type":"Line"},{"attributes":{"label":{"value":"NTK time: \u221e sec"},"renderers":[{"id":"39654"}]},"id":"39680","type":"LegendItem"},{"attributes":{"line_color":"#f4a582","line_width":2,"x":{"field":"x"},"y":{"field":"y"}},"id":"39568","type":"Line"},{"attributes":{"axis_label":"Test Accuracy","formatter":{"id":"39472"},"major_label_policy":{"id":"39473"},"ticker":{"id":"39263"}},"id":"39262","type":"LinearAxis"},{"attributes":{"data":{"x":[64,128,256,512,1024,2048],"y":[0.6170000433921814,0.6860000491142273,0.7800000309944153,0.8680000305175781,0.9000000357627869,0.9300000667572021]},"selected":{"id":"39677"},"selection_policy":{"id":"39678"}},"id":"39651","type":"ColumnDataSource"},{"attributes":{"data_source":{"id":"39521"},"glyph":{"id":"39522"},"hover_glyph":null,"muted_glyph":null,"nonselection_glyph":{"id":"39523"},"view":{"id":"39525"}},"id":"39524","type":"GlyphRenderer"},{"attributes":{"data":{"x":[64,128,256,512,1024,2048],"y":[0.6170000433921814,0.6860000491142273,0.7800000309944153,0.8680000305175781,0.9000000357627869,0.9300000667572021]},"selected":{"id":"39709"},"selection_policy":{"id":"39710"}},"id":"39681","type":"ColumnDataSource"},{"attributes":{"line_color":"#fddbc7","line_width":2,"x":{"field":"x"},"y":{"field":"y"}},"id":"39544","type":"Line"},{"attributes":{"children":[{"id":"39767"},{"id":"39765"}],"sizing_mode":"scale_both"},"id":"39768","type":"Column"},{"attributes":{"data_source":{"id":"39651"},"glyph":{"id":"39652"},"hover_glyph":null,"muted_glyph":null,"nonselection_glyph":{"id":"39653"},"view":{"id":"39655"}},"id":"39654","type":"GlyphRenderer"},{"attributes":{"toolbar":{"id":"39766"},"toolbar_location":"above"},"id":"39767","type":"ToolbarBox"},{"attributes":{"line_color":"#d1e5f0","line_width":2,"x":{"field":"x"},"y":{"field":"y"}},"id":"39522","type":"Line"},{"attributes":{"data_source":{"id":"39621"},"glyph":{"id":"39622"},"hover_glyph":null,"muted_glyph":null,"nonselection_glyph":{"id":"39623"},"view":{"id":"39625"}},"id":"39624","type":"GlyphRenderer"},{"attributes":{},"id":"39271","type":"HelpTool"},{"attributes":{"label":{"value":"NN width: 8192"},"renderers":[{"id":"39624"}]},"id":"39650","type":"LegendItem"},{"attributes":{},"id":"39324","type":"UnionRenderers"},{"attributes":{"toolbars":[{"id":"39240"},{"id":"39273"}],"tools":[{"id":"39233"},{"id":"39234"},{"id":"39235"},{"id":"39236"},{"id":"39237"},{"id":"39238"},{"id":"39266"},{"id":"39267"},{"id":"39268"},{"id":"39269"},{"id":"39270"},{"id":"39271"}]},"id":"39766","type":"ProxyToolbar"},{"attributes":{"line_alpha":0.1,"line_dash":[2],"line_width":2,"x":{"field":"x"},"y":{"field":"y"}},"id":"39683","type":"Line"},{"attributes":{"label":{"value":"NN width: 1024"},"renderers":[{"id":"39546"}]},"id":"39566","type":"LegendItem"},{"attributes":{"axis":{"id":"39225"},"ticker":null},"id":"39228","type":"Grid"},{"attributes":{"line_alpha":0.1,"line_color":"#92c5de","line_width":2,"x":{"field":"x"},"y":{"field":"y"}},"id":"39503","type":"Line"},{"attributes":{},"id":"39539","type":"Selection"},{"attributes":{"data_source":{"id":"39567"},"glyph":{"id":"39568"},"hover_glyph":null,"muted_glyph":null,"nonselection_glyph":{"id":"39569"},"view":{"id":"39571"}},"id":"39570","type":"GlyphRenderer"},{"attributes":{},"id":"39563","type":"Selection"},{"attributes":{"axis_label":"Training Dataset Size","formatter":{"id":"39320"},"major_label_policy":{"id":"39321"},"ticker":{"id":"39226"}},"id":"39225","type":"LinearAxis"},{"attributes":{},"id":"39518","type":"UnionRenderers"},{"attributes":{},"id":"39564","type":"UnionRenderers"},{"attributes":{"data":{"x":[64,128,256,512,1024,2048],"y":[0.11300000548362732,0.3020000159740448,0.49400001764297485,0.6430000066757202,0.7510000467300415,0.8350000381469727]},"selected":{"id":"39517"},"selection_policy":{"id":"39518"}},"id":"39501","type":"ColumnDataSource"},{"attributes":{"below":[{"id":"39225"}],"center":[{"id":"39228"},{"id":"39232"},{"id":"39326"}],"height":30,"left":[{"id":"39229"}],"renderers":[{"id":"39314"},{"id":"39331"},{"id":"39349"},{"id":"39369"},{"id":"39391"},{"id":"39415"},{"id":"39441"},{"id":"39654"}],"sizing_mode":"scale_both","title":{"id":"39215"},"toolbar":{"id":"39240"},"toolbar_location":null,"width":40,"x_range":{"id":"39217"},"x_scale":{"id":"39221"},"y_range":{"id":"39219"},"y_scale":{"id":"39223"}},"id":"39214","subtype":"Figure","type":"Plot"},{"attributes":{"data_source":{"id":"39501"},"glyph":{"id":"39502"},"hover_glyph":null,"muted_glyph":null,"nonselection_glyph":{"id":"39503"},"view":{"id":"39505"}},"id":"39504","type":"GlyphRenderer"},{"attributes":{"label":{"value":"NTK time: 1e1 sec"},"renderers":[{"id":"39314"}]},"id":"39327","type":"LegendItem"},{"attributes":{"source":{"id":"39521"}},"id":"39525","type":"CDSView"},{"attributes":{"axis_label":"Test Accuracy","formatter":{"id":"39317"},"major_label_policy":{"id":"39318"},"ticker":{"id":"39230"}},"id":"39229","type":"LinearAxis"},{"attributes":{"data":{"x":[64,128,256,512,1024,2048],"y":[0.2680000066757202,0.3720000088214874,0.6170000433921814,0.7200000286102295,0.7970000505447388,0.8500000238418579]},"selected":{"id":"39647"},"selection_policy":{"id":"39648"}},"id":"39621","type":"ColumnDataSource"},{"attributes":{"overlay":{"id":"39272"}},"id":"39268","type":"BoxZoomTool"},{"attributes":{"data":{"x":[64,128,256,512,1024,2048],"y":[0.20200000703334808,0.08500000089406967,0.25,0.3920000195503235,0.29200002551078796,0.49400001764297485]},"selected":{"id":"39342"},"selection_policy":{"id":"39343"}},"id":"39328","type":"ColumnDataSource"},{"attributes":{"data_source":{"id":"39328"},"glyph":{"id":"39329"},"hover_glyph":null,"muted_glyph":null,"nonselection_glyph":{"id":"39330"},"view":{"id":"39332"}},"id":"39331","type":"GlyphRenderer"},{"attributes":{"axis":{"id":"39258"},"ticker":null},"id":"39261","type":"Grid"},{"attributes":{"data":{"x":[64,128,256,512,1024,2048],"y":[0.22600001096725464,0.3790000081062317,0.6070000529289246,0.7000000476837158,0.7870000600814819,0.8580000400543213]},"selected":{"id":"39589"},"selection_policy":{"id":"39590"}},"id":"39567","type":"ColumnDataSource"},{"attributes":{"source":{"id":"39543"}},"id":"39547","type":"CDSView"},{"attributes":{},"id":"39221","type":"LinearScale"},{"attributes":{"source":{"id":"39501"}},"id":"39505","type":"CDSView"},{"attributes":{},"id":"39323","type":"Selection"},{"attributes":{},"id":"39256","type":"LinearScale"},{"attributes":{},"id":"39226","type":"BasicTicker"},{"attributes":{"axis_label":"Training Dataset Size","formatter":{"id":"39475"},"major_label_policy":{"id":"39476"},"ticker":{"id":"39259"}},"id":"39258","type":"LinearAxis"},{"attributes":{"label":{"value":"NN width: 2048"},"renderers":[{"id":"39570"}]},"id":"39592","type":"LegendItem"},{"attributes":{},"id":"39617","type":"Selection"},{"attributes":{"line_alpha":0.1,"line_color":"#d1e5f0","line_width":2,"x":{"field":"x"},"y":{"field":"y"}},"id":"39523","type":"Line"},{"attributes":{"line_color":"#d6604d","line_width":2,"x":{"field":"x"},"y":{"field":"y"}},"id":"39594","type":"Line"},{"attributes":{"line_color":"#b2182b","line_width":2,"x":{"field":"x"},"y":{"field":"y"}},"id":"39622","type":"Line"},{"attributes":{"label":{"value":"NTK time: 1e2 sec"},"renderers":[{"id":"39331"}]},"id":"39345","type":"LegendItem"},{"attributes":{"line_color":"#92c5de","line_width":2,"x":{"field":"x"},"y":{"field":"y"}},"id":"39502","type":"Line"},{"attributes":{"label":{"value":"NN width: 4096"},"renderers":[{"id":"39596"}]},"id":"39620","type":"LegendItem"},{"attributes":{},"id":"39618","type":"UnionRenderers"},{"attributes":{"source":{"id":"39567"}},"id":"39571","type":"CDSView"},{"attributes":{"label":{"value":"NN width: 256"},"renderers":[{"id":"39504"}]},"id":"39520","type":"LegendItem"},{"attributes":{"text":"MNIST, NTK"},"id":"39215","type":"Title"}],"root_ids":["39768"]},"title":"Bokeh Application","version":"2.3.3"}}
         </script>
         <script type="text/javascript">
           (function() {
@@ -50,8 +50,8 @@
                 (function(root) {
                   function embed_document(root) {
                     
-                  var docs_json = document.getElementById('23977').textContent;
-                  var render_items = [{"docid":"6784c0b0-02c0-45f9-b83d-e3599ebe1b0f","root_ids":["23496"],"roots":{"23496":"08a3f74f-d3d3-4eb5-88f3-38a9f73d7980"}}];
+                  var docs_json = document.getElementById('40269').textContent;
+                  var render_items = [{"docid":"5ecbb621-d67a-4532-92a8-84ad3df40fd3","root_ids":["39768"],"roots":{"39768":"1f5b6419-c8d9-4f72-9950-2ff5ffd283b7"}}];
                   root.Bokeh.embed.embed_items(docs_json, render_items);
                 
                   }
